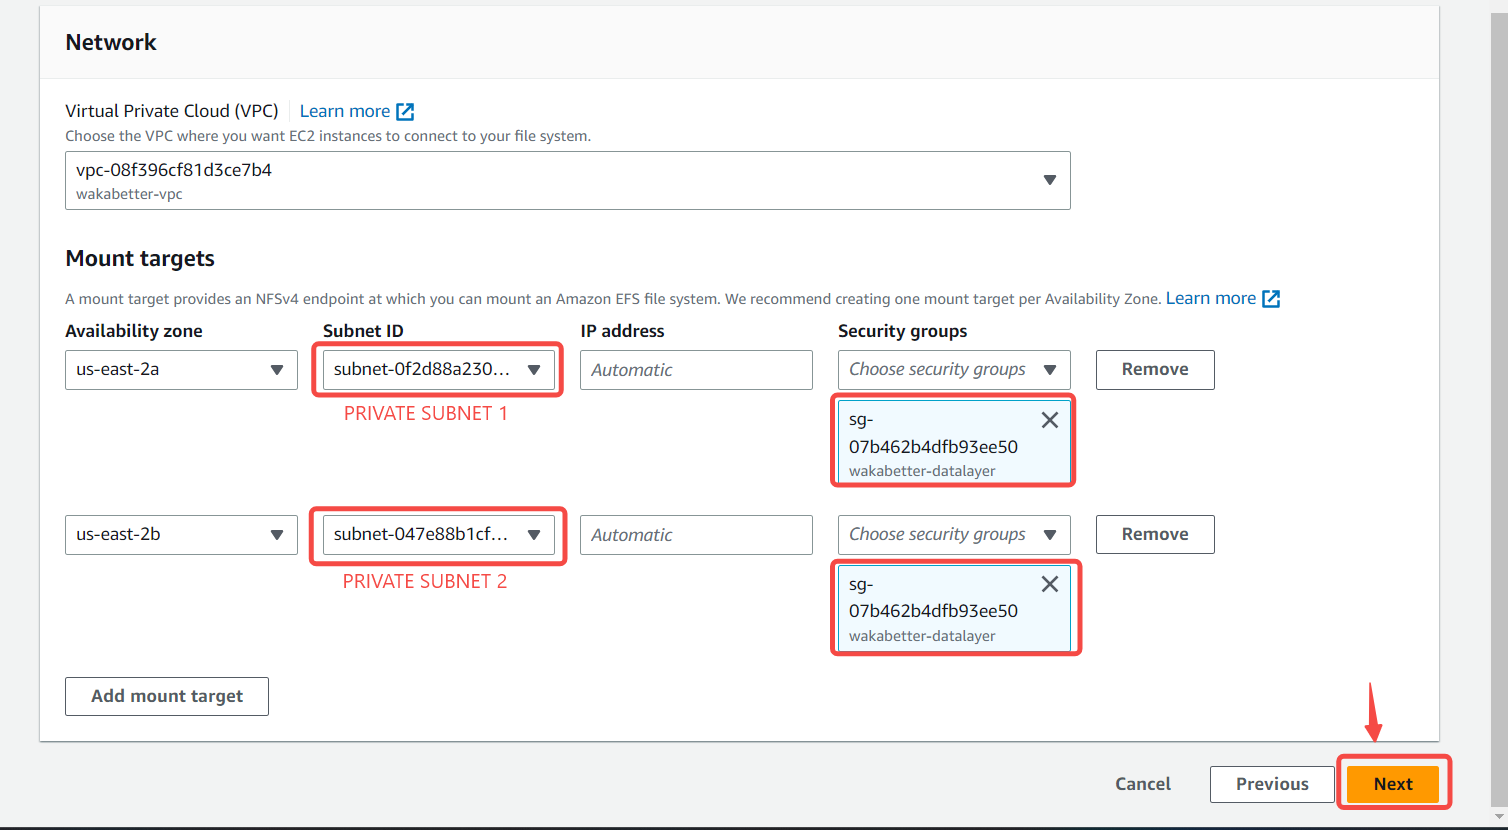
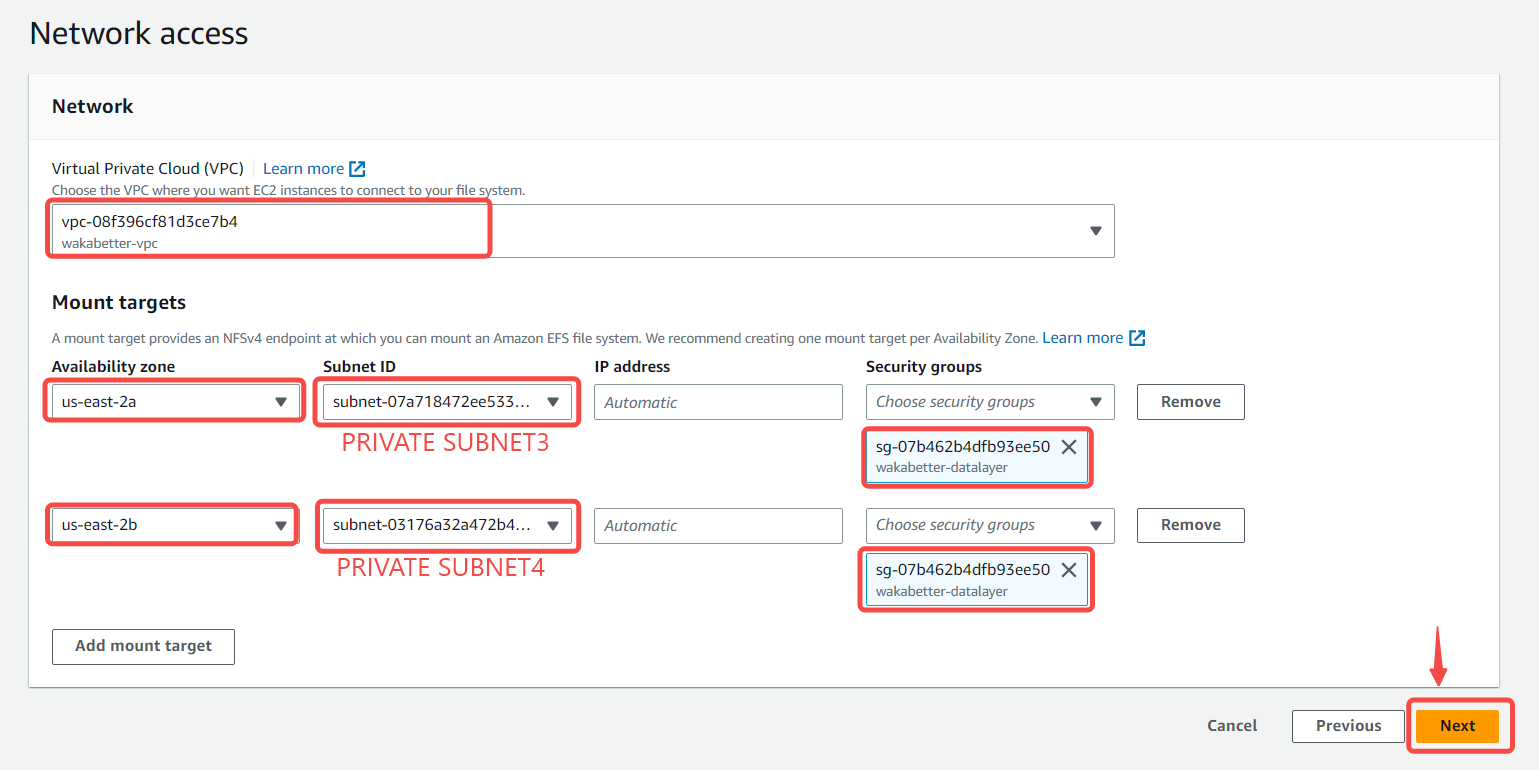
Configured RDS

diff --git a/AWS SOLUTION WITH REVERSE PROXY/README.md b/AWS SOLUTION WITH REVERSE PROXY/README.md
@@ -136,7 +136,7 @@ You will need TLS certificates to handle secured connectivity to your Applicatio
 
 
 ## Configure EFS
-- Create a new EFS
+- Create a new EFS File system. Create an EFS mount target per AZ in the VPC, associate it with both subnets dedicated for data layer. Associate the Security groups created earlier for data layer.
 
 ![Alt text](images/efs1.png)
 ![Alt text](images/efs2.png)
@@ -156,7 +156,7 @@ You will need TLS certificates to handle secured connectivity to your Applicatio
 ![Alt text](images/efs14.png)
 
 ## Configure RDS
-
+### Pre-requisite: 
 - Create a KMS Key
 ![Alt text](images/kms1.png)
 ![Alt text](images/kms2.png)
@@ -165,3 +165,11 @@ You will need TLS certificates to handle secured connectivity to your Applicatio
 ![Alt text](images/kms5.png)
 ![Alt text](images/kms6.png)
 
+To ensure that yout databases are highly available and also have failover support in case one availability zone fails, we will configure a multi-AZ set up of RDS MySQL database instance. In our case, since we are only using 2 AZs, we can only failover to one, but the same concept applies to 3 Availability Zones.
+
+To configure RDS, follow steps below:
+1. Create a subnet group and add 2 private subnets (data Layer)
+![Alt text](images/rds1.png)
+![Alt text](images/rds2.png)
+![Alt text](images/rds3.png)
+![Alt text](images/rds4.png)
